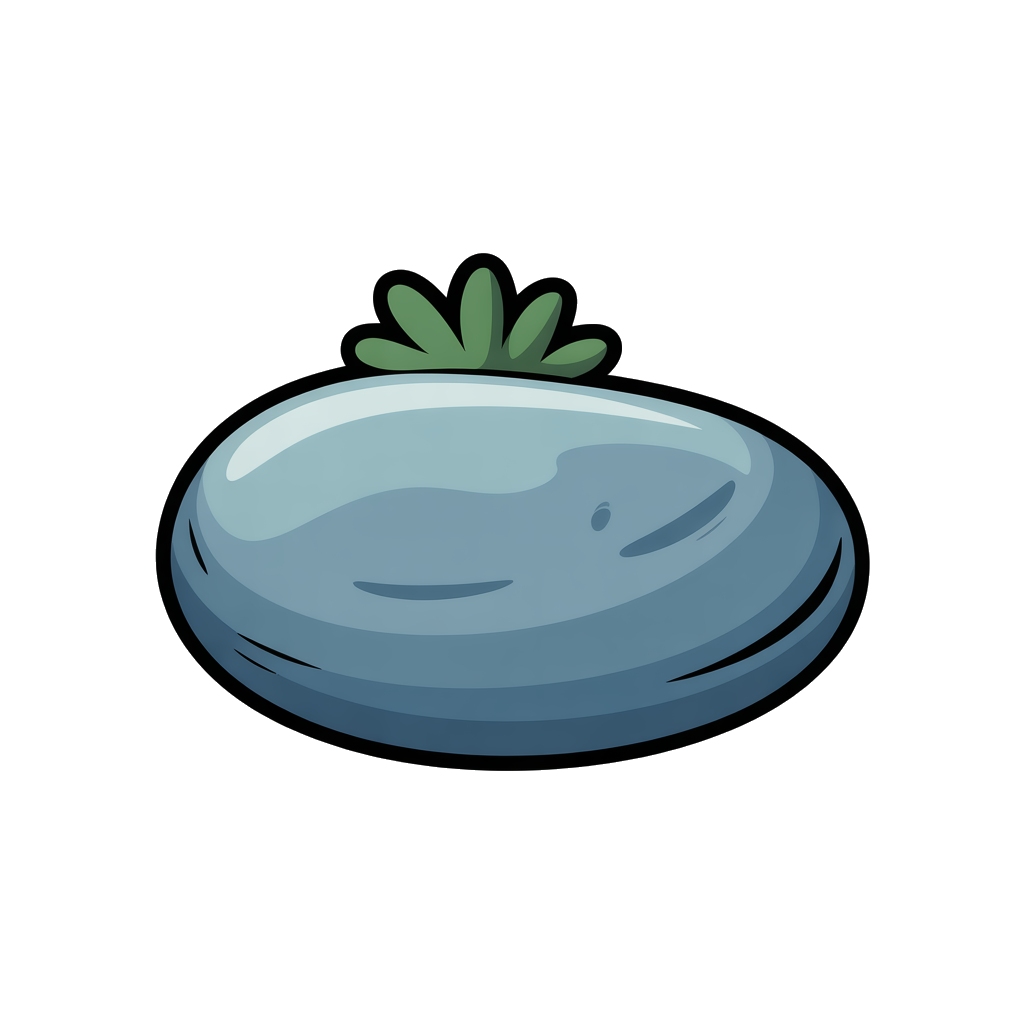
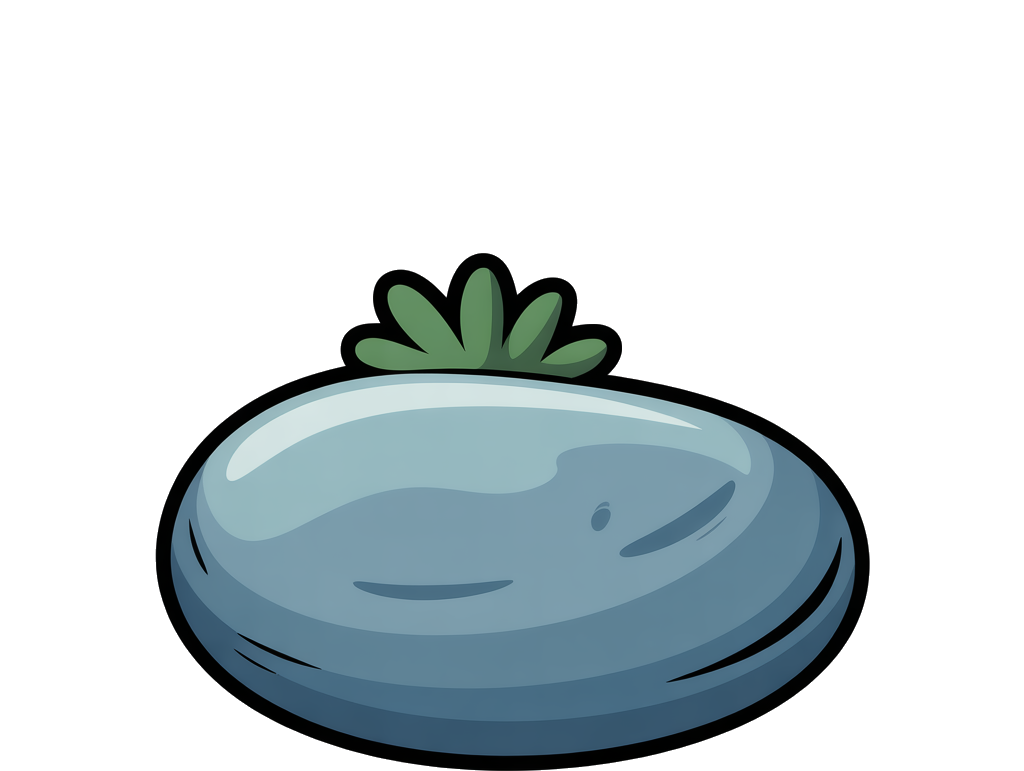
V14.1: night-weather, flora anchoring, layout, shark opacity
Feedback fixes from first V14 run:

- Weather pill idle state now reads "🌙 Clear" when the day/night cycle
  is in the night phase, "☀ Sunny" otherwise. The pill re-renders on
  phase transitions (skipped while a real weather event owns the pill).
- Trimmed the transparent bottom padding off seaweed, coral, and the
  two rock PNGs (scripts/trim_transparent.py). With bottom:0 they now
  sit on the pond floor instead of floating.
- .board got align-items: start so a long catches list scrolls
  internally without stretching the pond row and pushing the Cast
  button below the fold.
- Bumped the ambient shark opacity from 0.62 → 0.92. The older value
  let coral show through; the new one keeps a subtle recession without
  visible transparency.

diff --git a/style.css b/style.css
@@ -257,6 +257,10 @@ h2 {
   width: 100%;
   max-width: 1280px;
   margin: 0 auto;
+  /* V14: keep panel heights independent so a long catches list can't stretch
+     the pond row and push the Cast button below the fold. Each panel sizes
+     itself; the catches panel scrolls internally when it fills. */
+  align-items: start;
 }
 @media (max-width: 920px) {
   .board {
@@ -976,10 +980,14 @@ body.slowmo { animation: slowmoFilter 520ms ease-in-out; }
   transform-origin: 50% 100%;
   filter: drop-shadow(0 3px 3px rgba(0, 10, 25, 0.55));
 }
-/* V14 <img>-based flora — height driven by a CSS var set from JS. */
+/* V14 <img>-based flora — height driven by a CSS var set from JS.
+   PNGs were bottom-trimmed (scripts/trim_transparent.py) so the bottom
+   of the image is the bottom of the illustration — bottom:0 anchors them
+   to the pond floor instead of floating. */
 .flora.flora-img {
   width: auto;
   height: var(--flora-h, 100px);
+  bottom: 0;
 }
 .flora.sway         { animation: floraSway 4.8s ease-in-out infinite; }
 .flora.sway.reverse { animation: floraSway 4.2s ease-in-out infinite reverse; }
@@ -989,11 +997,11 @@ body.slowmo { animation: slowmoFilter 520ms ease-in-out; }
   animation: floraCoral 6s ease-in-out infinite;
 }
 .flora.flora-coral {
-  bottom: -10px;
+  bottom: 0;
   animation: floraCoral 6s ease-in-out infinite;
 }
 .flora.flora-rock {
-  bottom: -4px;
+  bottom: 0;
   animation: none;
   /* rocks sit slightly behind fish action — no transform origin override. */
 }
@@ -2958,7 +2966,9 @@ body.welcome-open { overflow: hidden; }
   z-index: 1; /* below the main ambient emoji fish which run at z:2 */
 }
 .ambient-fish .bg-ambient-fish { width: 88px; height: auto; }
-.ambient-fish .bg-ambient-shark { width: 132px; height: auto; opacity: 0.62; }
+/* Shark is solid — V14.1 feedback: 0.62 made coral show through. 0.92 keeps
+   a subtle "atmospheric" recession without visible transparency. */
+.ambient-fish .bg-ambient-shark { width: 132px; height: auto; opacity: 0.92; }
 
 /* ============================================================================
    V14 day/night cycle — cosmetic recolor only. --night-mix is 0..1, driven

diff --git a/game.js b/game.js
@@ -2740,6 +2740,10 @@
         const desired = wantMoon ? "assets/env/moon.png" : "assets/env/sun.png";
         if (!el.src.endsWith(desired)) el.src = desired;
       }
+      // Keep the idle weather pill honest: "☀ Sunny" in the day, "🌙 Clear"
+      // at night. Skipped if a weather event is active or pending — the pill
+      // is owned by the event in those windows.
+      if (!state.activeEvent && !state.pendingEvent) renderWeatherPill();
     }
     // Sun and moon each arc across the sky during their visibility window.
     // Day window spans t ∈ [0.65, 1) ∪ [0, 0.35) = 70% of the cycle.
@@ -3318,12 +3322,15 @@
       `;
       return;
     }
-    // Idle: ☀ sunny ambient — the baseline 95%-of-the-time state.
+    // Idle: ☀ Sunny during day/dusk/dawn, 🌙 Clear at night (V14 day/night
+    // cycle aware — the body phase is written by updateDayNight()).
+    const phase = (document.body && document.body.dataset.dnPhase) || "day";
+    const isNight = phase === "night";
     $eventPill.classList.remove("hidden");
     $eventPill.className = "event-pill idle";
     $eventPill.innerHTML = `
-      <span class="event-pill-emoji">☀</span>
-      <span class="event-pill-label">Sunny</span>
+      <span class="event-pill-emoji">${isNight ? "🌙" : "☀"}</span>
+      <span class="event-pill-label">${isNight ? "Clear" : "Sunny"}</span>
     `;
   }
 

diff --git a/scripts/trim_transparent.py b/scripts/trim_transparent.py
@@ -1,0 +1,78 @@
+#!/usr/bin/env python3
+"""
+Trim transparent rows/columns from the edges of a PNG so the illustration
+hugs its bounding box. Used to anchor flora (seaweed, coral, rocks) to the
+pond floor — they were floating because cutout.py leaves the original
+1024x1024 canvas intact.
+
+Usage:
+  python3 scripts/trim_transparent.py assets/env/seaweed.png
+  python3 scripts/trim_transparent.py assets/env/*.png
+
+Default: trims bottom only (other edges unchanged) so the illustration
+baseline ends up at y=height. Pass --all-edges to trim all four sides.
+"""
+import sys
+from PIL import Image
+
+ALPHA_THRESHOLD = 10  # pixels with alpha <= this count as "transparent"
+
+
+def trim(path: str, all_edges: bool = False) -> None:
+    im = Image.open(path).convert("RGBA")
+    w, h = im.size
+    pixels = im.load()
+
+    def row_opaque(y: int) -> bool:
+        for x in range(w):
+            if pixels[x, y][3] > ALPHA_THRESHOLD:
+                return True
+        return False
+
+    def col_opaque(x: int) -> bool:
+        for y in range(h):
+            if pixels[x, y][3] > ALPHA_THRESHOLD:
+                return True
+        return False
+
+    # Find the last opaque row (bottom of illustration).
+    bottom = h - 1
+    while bottom > 0 and not row_opaque(bottom):
+        bottom -= 1
+
+    if all_edges:
+        top = 0
+        while top < h - 1 and not row_opaque(top):
+            top += 1
+        left = 0
+        while left < w - 1 and not col_opaque(left):
+            left += 1
+        right = w - 1
+        while right > 0 and not col_opaque(right):
+            right -= 1
+        box = (left, top, right + 1, bottom + 1)
+    else:
+        # Only chop the transparent bottom padding.
+        box = (0, 0, w, bottom + 1)
+
+    if box == (0, 0, w, h):
+        print(f"skip (already tight): {path}")
+        return
+
+    out = im.crop(box)
+    out.save(path, optimize=True)
+    print(f"trim: {path}  {w}x{h} -> {out.size[0]}x{out.size[1]}")
+
+
+def main(argv):
+    all_edges = "--all-edges" in argv
+    paths = [a for a in argv[1:] if not a.startswith("--")]
+    if not paths:
+        print(__doc__, file=sys.stderr)
+        sys.exit(1)
+    for p in paths:
+        trim(p, all_edges=all_edges)
+
+
+if __name__ == "__main__":
+    main(sys.argv)
